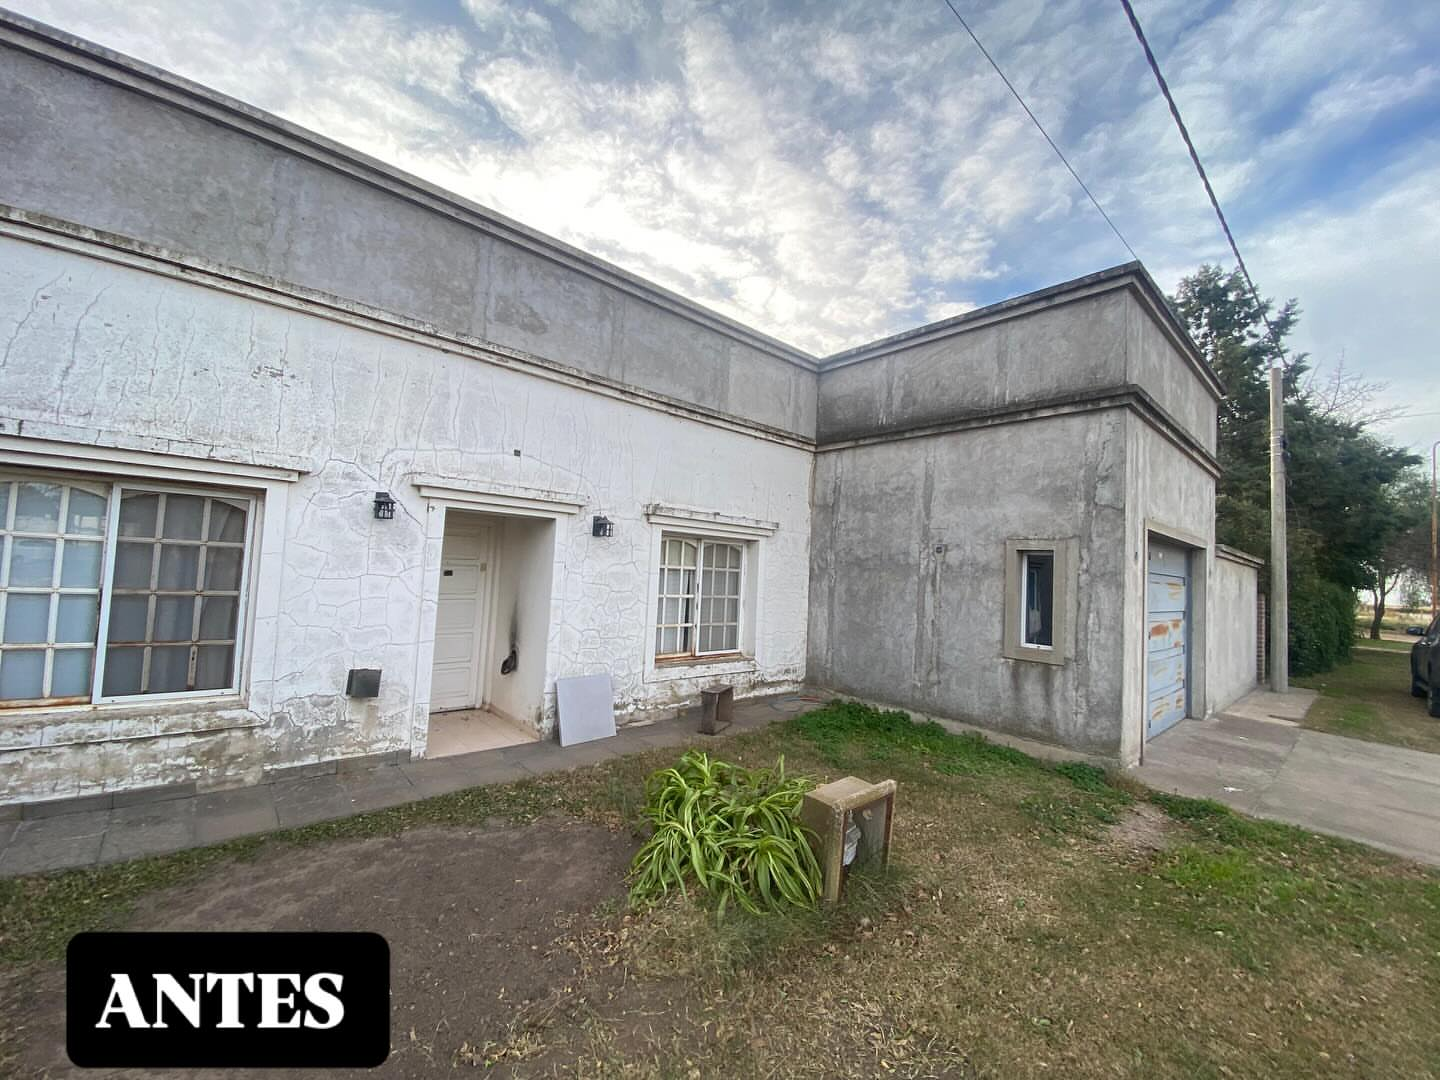
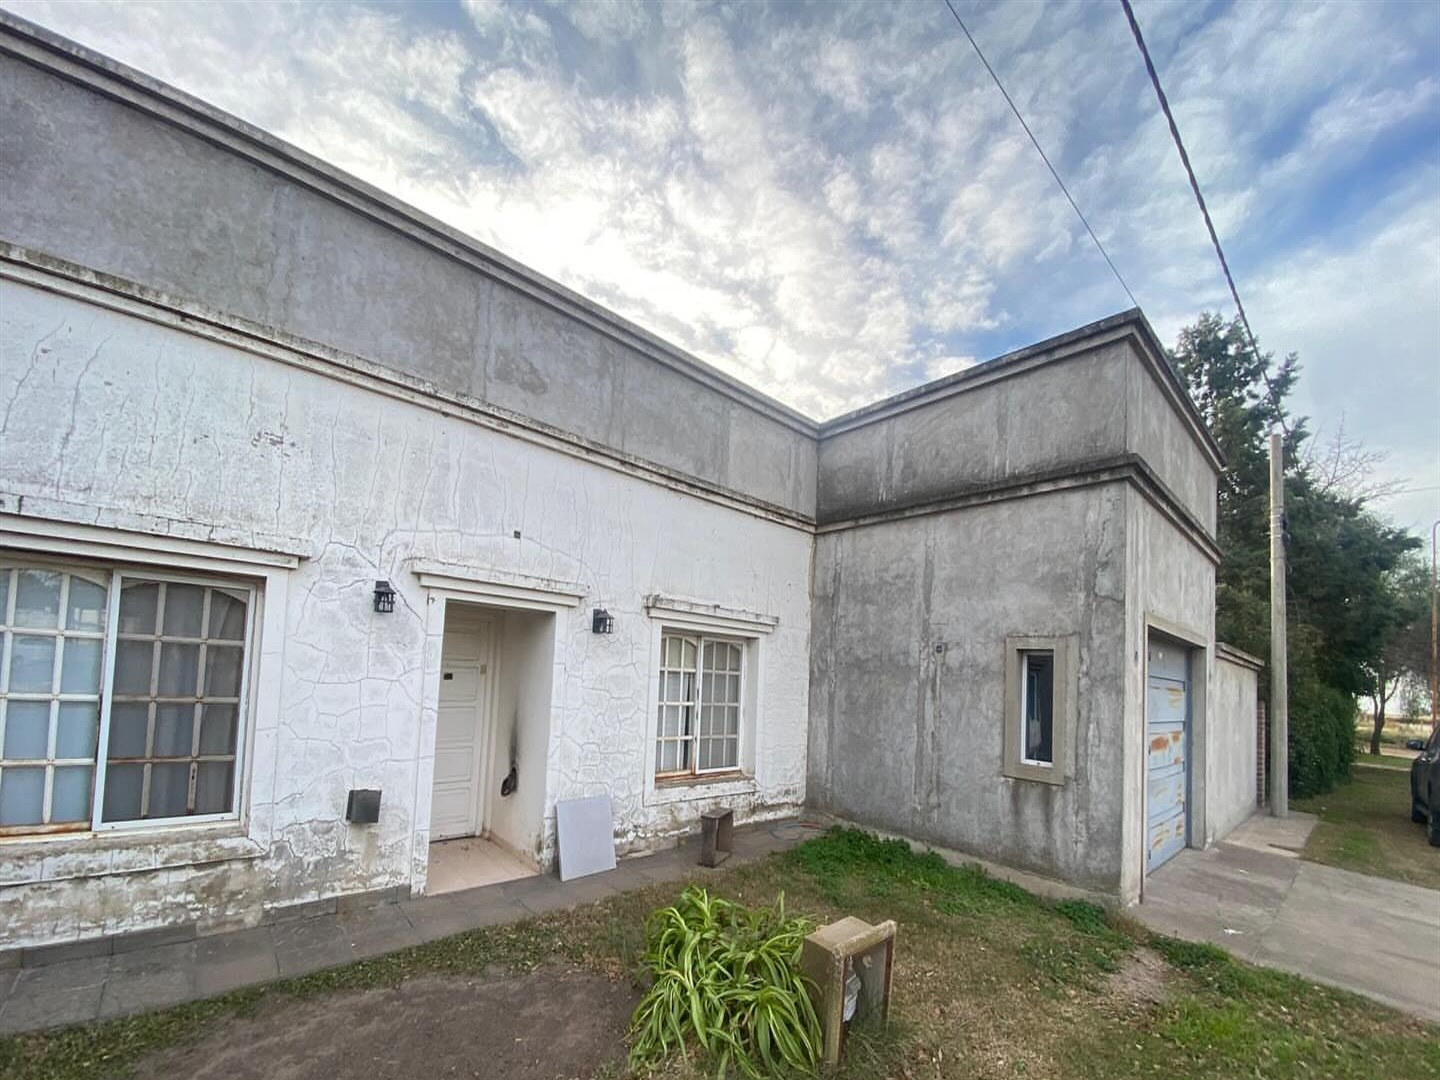
Integró el antes y después dentro de la grilla de Obras
Dejó de ser una sección aparte: los comparadores son tarjetas del mismo
marco 4:3 que el resto, alimentadas por un campo before? en PROJECTS, así
siguen filtrando por categoría. Recortó la etiqueta quemada de las fotos
de fachada para que ambas capas queden alineadas.

diff --git a/src/routes/index.tsx b/src/routes/index.tsx
@@ -73,49 +73,25 @@ const FILTERS: { id: Cat; label: string }[] = [
   { id: "refacciones", label: "Refacciones" },
   { id: "proceso", label: "Proceso constructivo" },
 ];
-const PROJECTS: {
+type Project = {
   cat: Exclude<Cat, "todas">;
   img: string;
   more?: string[];
+  before?: string;
   tag: string;
   title: string;
   text: string;
-}[] = [
+};
+const PROJECTS: Project[] = [
   { cat: "viviendas", img: imgResidencia, tag: "Llave en mano", title: "Residencia familiar 96 m²", text: "2 dormitorios, living-comedor y cocina, con orientación solar óptima y planos aprobados." },
   { cat: "comercial", img: imgNave, tag: "Nave logística", title: "Mayorista de Frutas y Verduras", text: "Estructura metálica de gran luz, piso H-30 para autoelevadores y sector de cámaras de frío." },
   { cat: "comercial", img: imgOficinas, tag: "Institucional", title: "Oficinas APAP General Pico", text: "Construcción y terminación integral con tabiquería técnica, iluminación y accesos confortables." },
   { cat: "comercial", img: imgGym, tag: "Adecuación", title: "Centro Moov Training", text: "Refacción de vivienda a consultorio kinésico y gimnasio funcional con apeos y refuerzos." },
   { cat: "refacciones", img: imgCocina, tag: "Refacciones", title: "Remodelación de cocina", text: "Demolición, cañerías e instalaciones eléctricas nuevas, revestimientos cerámicos, mesada de mármol y griferías monocomando." },
-  { cat: "refacciones", img: imgBanioDespues, tag: "Refacciones", title: "Remodelación de baño", text: "Demolición de revoques, instalación de agua nueva, revestimientos cerámicos y colocación de sanitarios." },
+  { cat: "refacciones", img: imgBanioDespues, before: imgBanioAntes, tag: "Refacciones", title: "Remodelación de baño", text: "Demolición de revoques y contrapiso, instalación nueva de agua y cloacas, cerámicos, sanitarios y griferías." },
+  { cat: "refacciones", img: imgFachadaDespues, before: imgFachadaAntes, tag: "Refacciones", title: "Renovación de fachada en vivienda familiar", text: "Retiro del revoque deteriorado y fisurado, terminación continua con guardapolvos, acceso en piedra y recambio de carpinterías." },
   { cat: "proceso", img: imgLosa, more: [imgLosa2], tag: "Losas", title: "Llenado de losa con hormigón elaborado", text: "Armado de encofrados, apuntalamiento y llenado continuo de losa, con verificación de recubrimientos de acero." },
   { cat: "proceso", img: imgEifs, tag: "EIFS", title: "Aislación exterior y sellado de fisuras", text: "Placas de EPS de alta densidad con base coat y malla sobre muros con grietas reparadas." },
-];
-
-// Cada par se suma acá: el slider se renderiza a partir de esta lista.
-// tall = el par es vertical (9:16), para no recortar techo ni piso.
-const COMPARISONS: {
-  tag: string;
-  title: string;
-  text: string;
-  before: string;
-  after: string;
-  tall?: boolean;
-}[] = [
-  {
-    tag: "Antes y después",
-    title: "Renovación de fachada en vivienda familiar",
-    text: "Retiro del revoque deteriorado y fisurado, nueva terminación continua con guardapolvos, acceso revestido en piedra y recambio de carpinterías y portón de garage.",
-    before: imgFachadaAntes,
-    after: imgFachadaDespues,
-  },
-  {
-    tag: "Antes y después",
-    title: "Remodelación de baño en vivienda familiar",
-    text: "Demolición de revoques y contrapiso, instalación nueva de agua y cloacas, revoque y cerámicos nuevos, y colocación de sanitarios y griferías.",
-    before: imgBanioAntes,
-    after: imgBanioDespues,
-    tall: true,
-  },
 ];
 
 const PROCESS = [
@@ -392,74 +368,71 @@ function Services() {
   );
 }
 
-function ComparisonCard({ item }: { item: (typeof COMPARISONS)[number] }) {
+// Par antes/después: ocupa el mismo marco 4:3 de la grilla que las otras tarjetas.
+function ComparisonMedia({
+  title,
+  before,
+  after,
+}: {
+  title: string;
+  before: string;
+  after: string;
+}) {
   const [pos, setPos] = useState(50);
   const [active, setActive] = useState(false);
   return (
-    <figure
-      className={`animate-rise overflow-hidden rounded-sm border border-border bg-card ${item.tall ? "mx-auto w-full max-w-[380px]" : ""}`}
-    >
-      <div
-        className={`relative w-full select-none overflow-hidden ${item.tall ? "aspect-[9/16]" : "aspect-[4/3]"}`}
-      >
+    <div className="relative aspect-[4/3] w-full select-none overflow-hidden">
+      <img
+        src={after}
+        alt={`${title}: después`}
+        loading="lazy"
+        width={1024}
+        height={768}
+        className="absolute inset-0 size-full object-cover"
+      />
+      <div className="absolute inset-0" style={{ clipPath: `inset(0 ${100 - pos}% 0 0)` }}>
         <img
-          src={item.after}
-          alt={`${item.title}: después`}
-          loading="lazy"
-          className="absolute inset-0 size-full object-cover object-bottom"
+          src={before}
+          alt={`${title}: antes`}
+          width={1024}
+          height={768}
+          className="size-full object-cover"
         />
-        <div className="absolute inset-0" style={{ clipPath: `inset(0 ${100 - pos}% 0 0)` }}>
-          <img
-            src={item.before}
-            alt={`${item.title}: antes`}
-            className="size-full object-cover object-bottom"
-          />
-        </div>
-        <input
-          type="range"
-          min={0}
-          max={100}
-          step={0.5}
-          value={pos}
-          onChange={(e) => setPos(Number(e.target.value))}
-          onPointerDown={() => setActive(true)}
-          onPointerUp={() => setActive(false)}
-          onPointerCancel={() => setActive(false)}
-          onFocus={() => setActive(true)}
-          onBlur={() => setActive(false)}
-          aria-label={`Comparar el antes y el después de ${item.title}`}
-          className="absolute inset-0 z-10 size-full cursor-ew-resize appearance-none bg-transparent opacity-0 outline-none [touch-action:pan-y]"
-        />
-        <span
-          className={`pointer-events-none absolute left-4 top-4 rounded-sm border border-border bg-background/90 px-2.5 py-1 text-[11px] font-bold uppercase tracking-wider text-muted-foreground transition-opacity duration-300 ${pos < 14 ? "opacity-0" : "opacity-100"}`}
+      </div>
+      <input
+        type="range"
+        min={0}
+        max={100}
+        step={0.5}
+        value={pos}
+        onChange={(e) => setPos(Number(e.target.value))}
+        onPointerDown={() => setActive(true)}
+        onPointerUp={() => setActive(false)}
+        onPointerCancel={() => setActive(false)}
+        onFocus={() => setActive(true)}
+        onBlur={() => setActive(false)}
+        aria-label={`Comparar el antes y el después de ${title}`}
+        className="absolute inset-0 z-10 size-full cursor-ew-resize appearance-none bg-transparent opacity-0 outline-none [touch-action:pan-y]"
+      />
+      <span
+        className={`pointer-events-none absolute left-4 top-4 rounded-sm border border-border bg-background/90 px-2.5 py-1 text-[11px] font-bold uppercase tracking-wider text-muted-foreground transition-opacity duration-300 ${pos < 14 ? "opacity-0" : "opacity-100"}`}
+      >
+        Antes
+      </span>
+      <span
+        className={`pointer-events-none absolute right-4 top-4 rounded-sm bg-primary px-2.5 py-1 text-[11px] font-bold uppercase tracking-wider text-primary-foreground transition-opacity duration-300 ${pos > 86 ? "opacity-0" : "opacity-100"}`}
+      >
+        Después
+      </span>
+      <div className="pointer-events-none absolute inset-y-0" style={{ left: `${pos}%` }}>
+        <div className="absolute inset-y-0 -left-px w-0.5 bg-background/90" />
+        <div
+          className={`absolute top-1/2 grid size-11 -translate-x-1/2 -translate-y-1/2 place-items-center rounded-full border border-border bg-background text-foreground shadow-elegant transition duration-200 ${active ? "scale-110 ring-2 ring-primary" : ""}`}
         >
-          Antes
-        </span>
-        <span
-          className={`pointer-events-none absolute right-4 top-4 rounded-sm bg-primary px-2.5 py-1 text-[11px] font-bold uppercase tracking-wider text-primary-foreground transition-opacity duration-300 ${pos > 86 ? "opacity-0" : "opacity-100"}`}
-        >
-          Después
-        </span>
-        <div className="pointer-events-none absolute inset-y-0" style={{ left: `${pos}%` }}>
-          <div className="absolute inset-y-0 -left-px w-0.5 bg-background/90" />
-          <div
-            className={`absolute top-1/2 grid size-11 -translate-x-1/2 -translate-y-1/2 place-items-center rounded-full border border-border bg-background text-foreground shadow-elegant transition duration-200 ${active ? "scale-110 ring-2 ring-primary" : ""}`}
-          >
-            <ChevronsLeftRight className="size-5" strokeWidth={2.5} />
-          </div>
+          <ChevronsLeftRight className="size-5" strokeWidth={2.5} />
         </div>
       </div>
-      <figcaption className="p-6">
-        <p className="text-[11px] font-bold uppercase tracking-wider text-primary-glow">
-          {item.tag}
-        </p>
-        <h3 className="mt-2 text-lg font-extrabold text-card-foreground">{item.title}</h3>
-        <p className="mt-2 text-sm leading-relaxed text-muted-foreground">{item.text}</p>
-        <p className="mt-4 flex items-center gap-2 text-[11px] font-bold uppercase tracking-wider text-muted-foreground">
-          <ChevronsLeftRight className="size-4" /> Arrastrá para comparar
-        </p>
-      </figcaption>
-    </figure>
+    </div>
   );
 }
 
@@ -533,26 +506,22 @@ function Works() {
         <div className="mt-10 grid gap-6 sm:grid-cols-2 lg:grid-cols-3">
           {list.map((p) => (
             <article key={p.title} className="animate-rise group overflow-hidden rounded-sm border border-border bg-card">
-              <ProjectMedia title={p.title} tag={p.tag} srcs={p.more ? [p.img, ...p.more] : [p.img]} />
+              {p.before ? (
+                <ComparisonMedia title={p.title} before={p.before} after={p.img} />
+              ) : (
+                <ProjectMedia title={p.title} tag={p.tag} srcs={p.more ? [p.img, ...p.more] : [p.img]} />
+              )}
               <div className="p-6">
                 <h3 className="text-lg font-extrabold text-card-foreground">{p.title}</h3>
                 <p className="mt-2 text-sm leading-relaxed text-muted-foreground">{p.text}</p>
+                {p.before && (
+                  <p className="mt-4 flex items-center gap-2 text-[11px] font-bold uppercase tracking-wider text-muted-foreground">
+                    <ChevronsLeftRight className="size-4" /> Arrastrá para comparar
+                  </p>
+                )}
               </div>
             </article>
           ))}
-        </div>
-        <div className="mx-auto mt-16 max-w-4xl">
-          <h3 className="text-xl font-black tracking-tight text-foreground md:text-2xl">
-            Antes y después de obra
-          </h3>
-          <p className="mt-2 text-sm text-muted-foreground">
-            Deslizá la línea sobre la imagen para ver el estado original y el resultado final.
-          </p>
-          <div className="mt-6 space-y-6">
-            {COMPARISONS.map((c) => (
-              <ComparisonCard key={c.title} item={c} />
-            ))}
-          </div>
         </div>
         <div className="mt-12 text-center">
           <a href="https://www.instagram.com/ar_constructora/" target="_blank" rel="noopener noreferrer" className="inline-flex items-center gap-2 text-sm font-bold uppercase tracking-wider text-primary-glow hover:underline">
